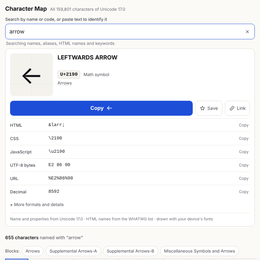
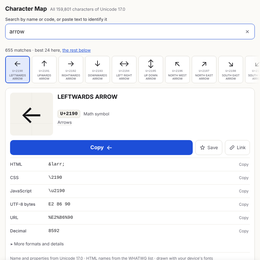
Character Map: look-alike letters explained on the card, choices before guesses on phones, readable tile captions, example shown when names fail to load
Claude-Session: https://claude.ai/code/session_01MGfLZYyqNmaj97xkRGabNW

diff --git a/tools/character_map_explorer.html b/tools/character_map_explorer.html
@@ -173,9 +173,9 @@ details.more[open] summary::before { content: "▾ "; }
 .grid button.c:hover { background: var(--tile); }
 .grid button.c:focus-visible { outline: 2px solid var(--accent); outline-offset: -1px; z-index: 2; }
 .grid.named { grid-template-columns: repeat(auto-fill, minmax(88px, 1fr)); }
-.grid.named button.c { aspect-ratio: auto; min-height: 100px; grid-template-rows: 48px auto auto; padding: 4px 4px 6px; }
+.grid.named button.c { aspect-ratio: auto; min-height: 112px; grid-template-rows: 48px auto auto; align-content: start; padding: 4px 4px 6px; }
 .rhead:empty { min-height: 0; margin: 0; }
-.grid .cn { max-height: 2.4em; font-size: 9px; line-height: 1.2; color: var(--ink2); text-align: center; display: -webkit-box; -webkit-line-clamp: 2; -webkit-box-orient: vertical; overflow: hidden; padding-top: 3px; max-width: 100%; overflow-wrap: anywhere; }
+.grid .cn { max-height: 2.6em; font-size: 10px; line-height: 1.3; color: var(--ink2); text-align: center; display: -webkit-box; -webkit-line-clamp: 2; -webkit-box-orient: vertical; overflow: hidden; padding-top: 3px; max-width: 100%; overflow-wrap: anywhere; }
 .grid.named .ch { padding: 0; }
 .grid button.c.j1 { box-shadow: inset 0 -4px 0 var(--ink2); }
 .grid button.c.j1 .cg { font-size: 22px; }
@@ -995,6 +995,10 @@ button.c.nofont::before { content: "no font"; position: absolute; top: 3px; left
     $('blk').textContent = inf.block || '';
     $('blk').hidden = !inf.block || inf.block === 'No block';
     let note = noteFor(inf);
+    if (!note && db && parsed.kind === 'text') {
+      const sc = C.scriptOf(db, cp), mixed = C.mixedScripts(db, parsed.cps);
+      if (sc && mixed.some(m => m.script === sc)) note = `A ${sc[0] + sc.slice(1).toLowerCase()} letter in text that is otherwise ${C.scriptOf(db, parsed.cps.find(c => C.scriptOf(db, c) && C.scriptOf(db, c) !== sc)) === 'LATIN' ? 'Latin' : 'another script'}. It can look exactly like a Latin letter while being a different character.`;
+    }
     if (!note && db && d.kind === 'char' && cp > 0x7E && noGlyph(d.text)) note = 'Your device has no font for this character, so it may show as a box or not at all. The codes below are still right.';
     $('note').textContent = note; $('note').hidden = !note;
     $('starT').textContent = saved.includes(cp) ? 'Saved' : 'Save';
@@ -1153,8 +1157,9 @@ button.c.nofont::before { content: "no font"; position: absolute; top: 3px; left
       const inv = [];
       let pos = 0;
       let cells = '';
+      const odd = new Set(p.kind === 'text' && db ? C.mixedScripts(db, p.cps).flatMap(m => m.at) : []); // look-alikes are marked like hidden ones
       for (const k of cl.clusters) {
-        cells += k.cps.map(c => { pos++; const f = isInvisible(c); if (f) inv.push([c, pos]); list.push(c); return cell(c, f, true, k.cps.length > 1 ? 'j1' : ''); }).join('');
+        cells += k.cps.map(c => { pos++; const f = isInvisible(c); if (f) inv.push([c, pos]); const fl = f || odd.has(pos); list.push(c); return cell(c, fl, true, k.cps.length > 1 ? 'j1' : ''); }).join('');
       }
       const total = cl.total;
       hd = `<h2 class="rtitle" id="rtitle">${p.kind === 'text' ? 'Your text' : 'From ' + esc(p.how)}: ${fmtN(total)} ${total === 1 ? 'code point' : 'code points'}</h2>`;
@@ -1168,7 +1173,7 @@ button.c.nofont::before { content: "no font"; position: absolute; top: 3px; left
       }
       if (p.kind === 'text' && db) for (const m of C.mixedScripts(db, p.cps).slice(0, 2)) {
         const word = m.script[0] + m.script.slice(1).toLowerCase();
-        chips.push(`<button type="button" class="w" data-cp="${p.cps[m.at[0] - 1]}">${m.at.length} × ${esc(word)} ${m.at.length > 1 ? 'letters' : 'letter'} <span style="font-weight:400">${m.at.length > 1 ? 'characters' : 'character'} ${m.at.slice(0, 3).join(', ')}${m.at.length > 3 ? '…' : ''}</span></button>`);
+        chips.push(`<button type="button" class="w" data-cp="${p.cps[m.at[0] - 1]}">Mixed scripts: ${m.at.length} ${esc(word)} ${m.at.length > 1 ? 'letters' : 'letter'} <span style="font-weight:400">at ${m.at.slice(0, 3).join(', ')}${m.at.length > 3 ? '…' : ''}, may look like Latin</span></button>`);
       }
       const joined = cl.clusters.filter(k => k.cps.length > 1);
       for (const k of joined.slice(0, 3)) chips.push(`<button type="button" class="j" data-cp="${k.cps[0]}"><span class="fg">${esc(k.text)}</span> = 1 character, ${k.cps.length} code points (underlined)</button>`);
@@ -1258,11 +1263,12 @@ button.c.nofont::before { content: "no font"; position: absolute; top: 3px; left
       }
     } else {
       ta.removeAttribute('aria-invalid');
-      const how = {code: () => `Read as ${parsed.how}`, number: () => parsed.reads.length > 1 ? 'Bare digits: showing both readings' : 'Read as a hex code point', text: () => '', words: () => 'Searching names, aliases, HTML names and keywords'};
+      const how = {code: () => `Read as ${parsed.how}`, number: () => parsed.reads.length > 1 ? 'Bare digits: showing both readings' : 'Read as a hex code point', text: () => '', words: () => ''};
       hint.textContent = how[parsed.kind] ? how[parsed.kind]() : '';
     }
     const stale = parsed.kind === 'error' && !parsed.loading && parsed.suggestCp == null;
-    $('cols').classList.toggle('textmode', parsed.kind === 'text');
+    // phones: when the input could mean several things, the choice comes before the card that shows one of them
+    $('cols').classList.toggle('textmode', parsed.kind === 'text' || (parsed.kind === 'number' && parsed.reads.length > 1));
     $('card').classList.toggle('is-stale', stale); $('stale').hidden = !stale;
     if (stale) $('stale').innerHTML = `<b>No character to show.</b> Valid codes run from U+0000 to U+10FFFF; names, HTML entities and pasted characters work too. Try:${tryChips()}`;
     const g = $('guess');
@@ -1479,6 +1485,9 @@ button.c.nofont::before { content: "no font"; position: absolute; top: 3px; left
     rove();
   }).catch(() => {
     dbFailed = true;
+    // without names a remembered character cannot be vouched for: show the example, and lists that need no data
+    if (!(SEED && SEED[sel]) && parsed.kind === 'empty') { sel = 0x2192; hadLast = false; }
+    if (tab === 'browse') tab = 'common';
     $('hint').textContent = 'Unicode names could not be loaded. Codes like U+2192 and pasted characters still work; reload to try again.';
     renderCard();
     renderResults();
